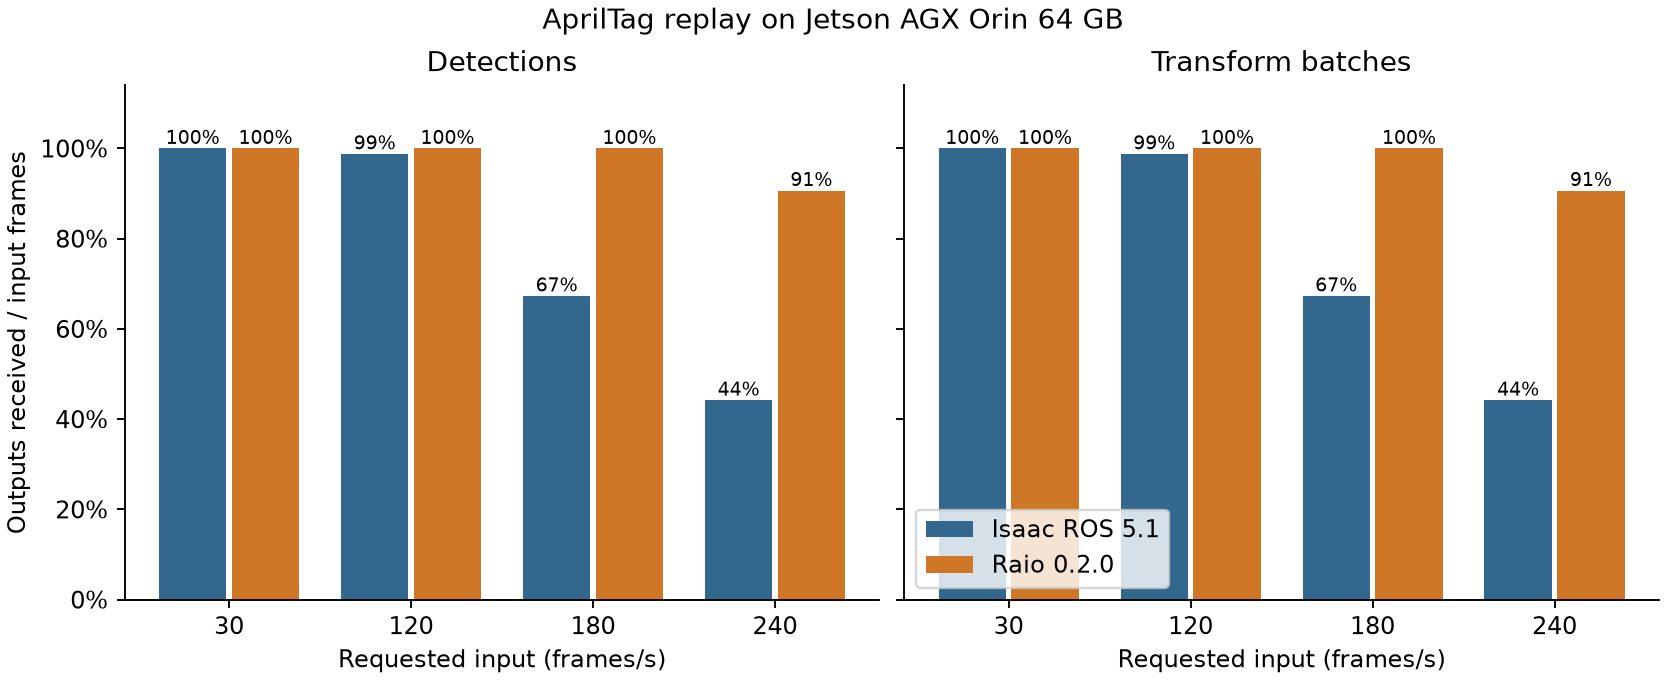
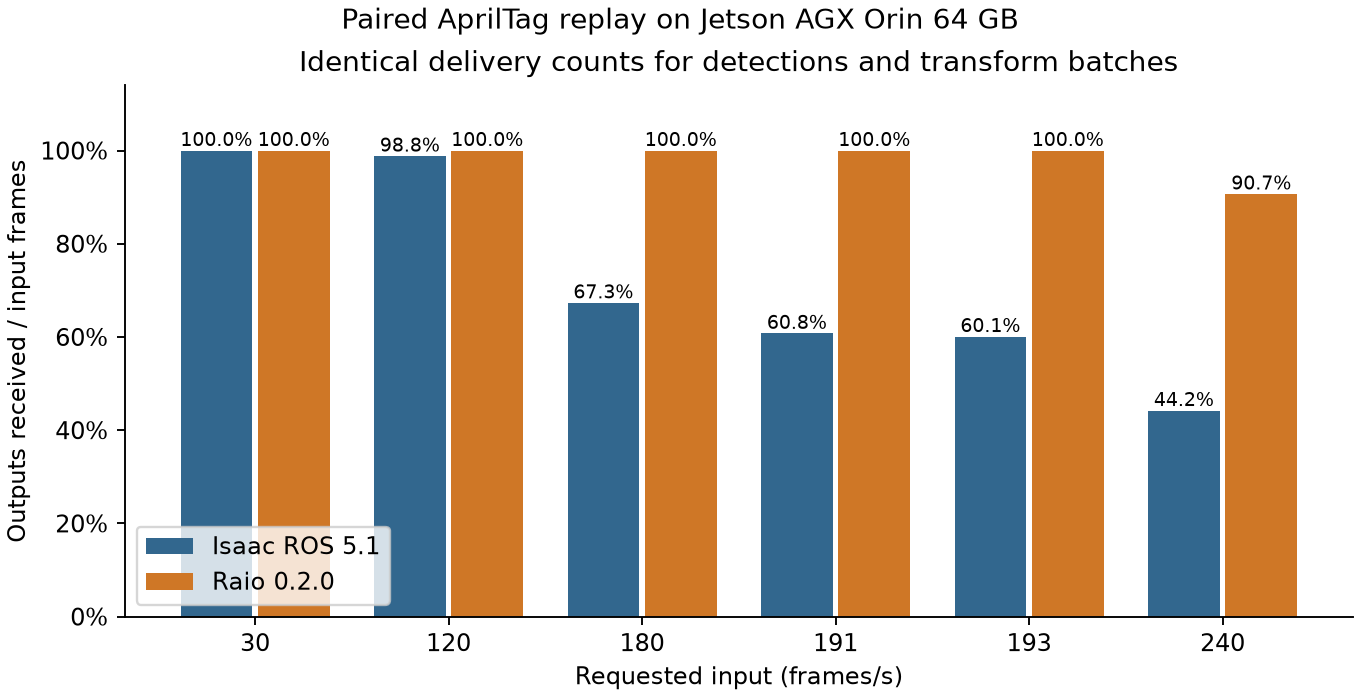
docs(benchmark): publish AprilTag measurements and stock Orin controls

diff --git a/benchmark/isaac_apriltag/plot_delivery.py b/benchmark/isaac_apriltag/plot_delivery.py
@@ -19,9 +19,13 @@ def main():
         for row in csv.DictReader(stream):
             counts[int(row["target_fps"]), row["runtime"]].append(row)
     rates = sorted({rate for rate, _ in counts})
-    fig, axes = plt.subplots(1, 2, figsize=(9.8, 4.0), sharey=True, layout="constrained")
-    for axis, (field, title) in zip(axes, (("detections", "Detections"),
-                                            ("transform_batches", "Transform batches"))):
+    fields = [("detections", "Detections"), ("transform_batches", "Transform batches")]
+    if all(row["detections"] == row["transform_batches"] for blocks in counts.values() for row in blocks):
+        fields = [("detections", "Identical delivery counts for detections and transform batches")]
+    fig, grid = plt.subplots(1, len(fields), figsize=(8 if len(fields) == 1 else 12, 4.1),
+                             sharey=True, squeeze=False, layout="constrained")
+    axes = grid[0]
+    for axis, (field, title) in zip(axes, fields):
         for offset, runtime, name, color in ((-0.20, "ros", "Isaac ROS 5.1", "#32678e"),
                                               (0.20, "raio", "Raio 0.2.0", "#cf7726")):
             fractions = []
@@ -31,14 +35,14 @@ def main():
                                  sum(int(row["inputs"]) for row in blocks))
             bars = axis.bar([i + offset for i in range(len(rates))], fractions, 0.37,
                             label=name, color=color)
-            axis.bar_label(bars, labels=[f"{100*x:.0f}%" for x in fractions], fontsize=8)
+            axis.bar_label(bars, labels=[f"{100*x:.1f}%" for x in fractions], fontsize=8)
         axis.set(title=title, xlabel="Requested input (frames/s)", ylim=(0, 1.14))
         axis.set_xticks(range(len(rates)), rates)
         axis.yaxis.set_major_formatter(PercentFormatter(1))
         axis.spines[["top", "right"]].set_visible(False)
     axes[0].set_ylabel("Outputs received / input frames")
-    axes[1].legend(loc="lower left")
-    fig.suptitle("AprilTag replay on Jetson AGX Orin 64 GB")
+    axes[-1].legend(loc="lower left")
+    fig.suptitle("Paired AprilTag replay on Jetson AGX Orin 64 GB")
     fig.savefig(args.figure, dpi=170)
     plt.close(fig)
 

diff --git a/benchmark/isaac_apriltag/collect_blocks.py b/benchmark/isaac_apriltag/collect_blocks.py
@@ -32,6 +32,7 @@ def main():
                     rows.append(dict(target_fps=rate, launch=label, block=number,
                                      runtime=runtime, inputs=block["sent"],
                                      offered_fps=round(block["sent_hz"], 4),
+                                     output_fps=round(block["received_hz"], 4),
                                      detections=block["received"], transform_batches=tf,
                                      drained_detections=block.get("drained"),
                                      last_detection_after_last_input_ms=block.get("last_detection_after_last_input_ms"),

diff --git a/benchmark/isaac_apriltag/README.md b/benchmark/isaac_apriltag/README.md
@@ -102,15 +102,41 @@ Detection and transform receivers recorded identical counts in every block. Each
 | 30 | 900 | 900 (100.0%) | 900 (100.0%) | 17.78 | 13.53 |
 | 120 | 3,600 | 3,557 (98.8%) | 3,600 (100.0%) | — | 5.71 |
 | 180 | 5,400 | 3,635 (67.3%) | 5,400 (100.0%) | — | 46.55 |
+| 191 | 5,730 | 3,482 (60.8%) | 5,730 (100.0%) | — | 62.08 |
+| 193 | 5,790 | 3,479 (60.1%) | 5,790 (100.0%) | — | 62.71 |
 | 240 | 7,200 | 3,183 (44.2%) | 6,528 (90.7%) | — | — |
 
 At the 240 fps target, the Isaac ROS publisher offered 237.37–238.25 fps across six blocks. 2 of six fell outside the configured 1% tolerance. Raio offered 239.999–240.005 fps. Raio eventually delivered all 7,200 detections and transform batches. Its last detection in each block arrived 1.00–1.15 s after the last input. The stock detection monitor stopped after the 0.5 s grace period, so the experiment cannot distinguish late stock detections from dropped ones.
+
+### Stock benchmark and matched-input comparisons
+
+At a 191 fps target on this board, Raio delivered 191.3 detections/s versus 125.0 in NVIDIA’s unmodified benchmark, a 53% throughput gain. At 193 fps, the paired test delivered 193.3 detections/s for Raio and 115.2 for Isaac ROS, a 68% gain. The paired rates are medians across six five-second blocks, calculated from the intervals between consecutive detections. NVIDIA’s stock report divides the detection count by the elapsed time between first and last receipt and drops the highest and lowest of five blocks before averaging. Its monitor waits 5 s after playback. The paired monitor waits 0.5 s. The paired ROS controller also records publication times and counts transforms through an additional subscriber.
+
+| Unmodified Isaac ROS 5.1 on this Orin | Reported input fps | Reported output fps |
+| --- | ---: | ---: |
+| [Default throughput search](../results/isaac_apriltag/stock/default.json) | 139.7 | 137.4 |
+| [191 fps target](../results/isaac_apriltag/stock/fixed-191.json) | 190.3 | 125.0 |
+| [240 fps target](../results/isaac_apriltag/stock/fixed-240.json) | 238.6 | 113.8 |
+
+NVIDIA reports 191.0 detections/s at 193.0 input fps on its AGX Orin. Raio’s six 193 fps blocks ranged from 188.8 to 193.4 detections/s. The public report identifies the platform family. Its RAM and clock settings are unspecified, and the cause of the difference between the local and published Isaac ROS results is unresolved. [NVIDIA’s release report](https://github.com/NVIDIA-ISAAC-ROS/isaac_ros_benchmark/blob/release-5.1/results/isaac_ros_apriltag_node-agx_orin.json)
+
+In the prepared Lyrical container, start a fresh shell and run the installed NVIDIA benchmark directly for the 191 fps control. Use the same dataset under `/trial/assets`. For the default search, omit the two frequency overrides. For the 240 fps control, set both bounds to 240. Run each control in a fresh log directory.
+
+```sh
+source /opt/ros/lyrical/setup.bash
+export ISAAC_ROS_WS=/trial ROS2_BENCHMARK_OVERRIDE_ASSETS_ROOT=/trial/assets
+export LD_LIBRARY_PATH="/usr/local/cuda/lib64:/opt/nvidia/vpi4/lib/$(gcc -print-multiarch):${LD_LIBRARY_PATH:-}"
+export ROS2_BENCHMARK_OVERRIDE_LOG_FOLDER=$(mktemp -d /trial/apriltag-control.XXXXXX)
+export ROS2_BENCHMARK_OVERRIDE_PUBLISHER_LOWER_FREQUENCY=191
+export ROS2_BENCHMARK_OVERRIDE_PUBLISHER_UPPER_FREQUENCY=191
+launch_test /opt/ros/lyrical/share/isaac_ros_apriltag_benchmark/scripts/isaac_ros_apriltag_node.py
+```
 
 ![AprilTag detection and transform delivery by input rate](../results/isaac_apriltag/orin-51-delivery.png)
 
 [Orin per-block measurements](../results/isaac_apriltag/orin-51-blocks.csv)
 
-On Orin, the auxiliary subscriber uses reliable QoS and captures the ten buffered frames at 5 fps after timing. Run each repeat in a fresh directory containing the example sources. Build the native library there and run the fixed rates as above. To regenerate the CSV and figure from two launch directories, run the following in the example source directory. NumPy is required for validation and Matplotlib for plotting.
+On Orin, the auxiliary subscriber uses reliable QoS and captures the ten buffered frames at 5 fps after timing. Run each repeat in a fresh directory containing the example sources. Build the native library there and run `bash matched.sh RATE` for each of 30, 120, 180, 191, 193 and 240 fps. The 180/240 and 191/193 pairs each ran in reverse order on their second launch. To regenerate the CSV and figure from two launch directories, run the following in the example source directory. NumPy is required for validation and Matplotlib for plotting.
 
 ```sh
 python3 collect_blocks.py --launch first /trial/first --launch second /trial/second orin-51-blocks.csv

diff --git a/docs/docs/developer/benchmarks.md b/docs/docs/developer/benchmarks.md
@@ -4,13 +4,28 @@ sidebar_position: 4
 
 # Benchmarks
 
-The repository has a benchmark that compares Raio with other middleware.
+## AprilTag detection on Jetson AGX Orin
 
-## Setup
+At a 191 fps input target, **Raio delivered 191.3 detections/s versus 125.0 for NVIDIA’s unmodified Isaac ROS 5.1 benchmark** on the same 64 GB Jetson AGX Orin Developer Kit. That is **53% higher detection throughput** for this 720p replay. Both pipelines used NVIDIA’s cuAprilTags detector and the same ten buffered images. The board ran JetPack 7.2.2 in MAXN mode.
 
-The benchmark measures **latency**: the time to send an array from one node to another and multiply it, for a range of array sizes. It compares rclpy (ROS 2), Ray, Rosia, and Raio. The setup is that of the [Rosia benchmark](https://github.com/rosia-project/rosia-py/tree/main/benchmark).
+| Comparison | Input target (fps) | Raio output (fps) | Isaac ROS output (fps) | Difference |
+| --- | ---: | ---: | ---: | ---: |
+| Same Orin, unmodified NVIDIA benchmark | 191 | 191.3 | 125.0 | +53% |
+| Same Orin, both detections and transforms monitored | 193 | 193.3 | 115.2 | +68% |
 
-## Running
+The first row compares six five-second Raio bursts (median output rate, 0.5 s grace period) with NVIDIA’s five-burst procedure (trimmed mean output rate, 5 s grace period). The second row uses the same six-burst protocol and grace period for both runtimes. Raio delivered all 5,790 detections and transform batches there, with **62.7 ms p95** from publication to detection receipt. The paired Isaac ROS run delivered 3,479 of each.
+
+On its own AGX Orin, NVIDIA reports **191.0 output fps at 193.0 input fps**. Raio’s six bursts at that input ranged from **188.8 to 193.4 output fps**, placing the published result within our measured range. On our board, the unmodified NVIDIA benchmark’s default throughput search reported 137.4 fps. The reason for the difference between the two Isaac ROS results is unresolved. [NVIDIA’s release report](https://github.com/NVIDIA-ISAAC-ROS/isaac_ros_benchmark/blob/release-5.1/results/isaac_ros_apriltag_node-agx_orin.json)
+
+![Percentage of detections and transform batches delivered within the measurement window at six requested frame rates](../../../benchmark/results/isaac_apriltag/orin-51-delivery.png)
+
+At a 240 fps target, 90.7% of Raio outputs and 44.2% of paired Isaac ROS outputs arrived within the measurement window. All of Raio’s remaining outputs arrived afterward. The experiment measures buffered replay in five-second bursts. [Method and reproduction commands](https://github.com/raio-robotics/raio/tree/main/benchmark/isaac_apriltag) · [Block measurements and stock reports](https://github.com/raio-robotics/raio/tree/main/benchmark/results/isaac_apriltag)
+
+## Array latency
+
+The benchmark measures **latency** as the time to send an array from one node to another and multiply it, for a range of array sizes. It compares rclpy (ROS 2), Ray, Rosia, and Raio. The setup is that of the [Rosia benchmark](https://github.com/rosia-project/rosia-py/tree/main/benchmark).
+
+### Running
 
 The benchmark runs in Docker:
 
@@ -19,7 +34,3 @@ docker compose -f benchmark/docker-compose.yml up --build
 ```
 
 Results are saved to `benchmark/results/`.
-
-## Results
-
-Results are not published here yet.
